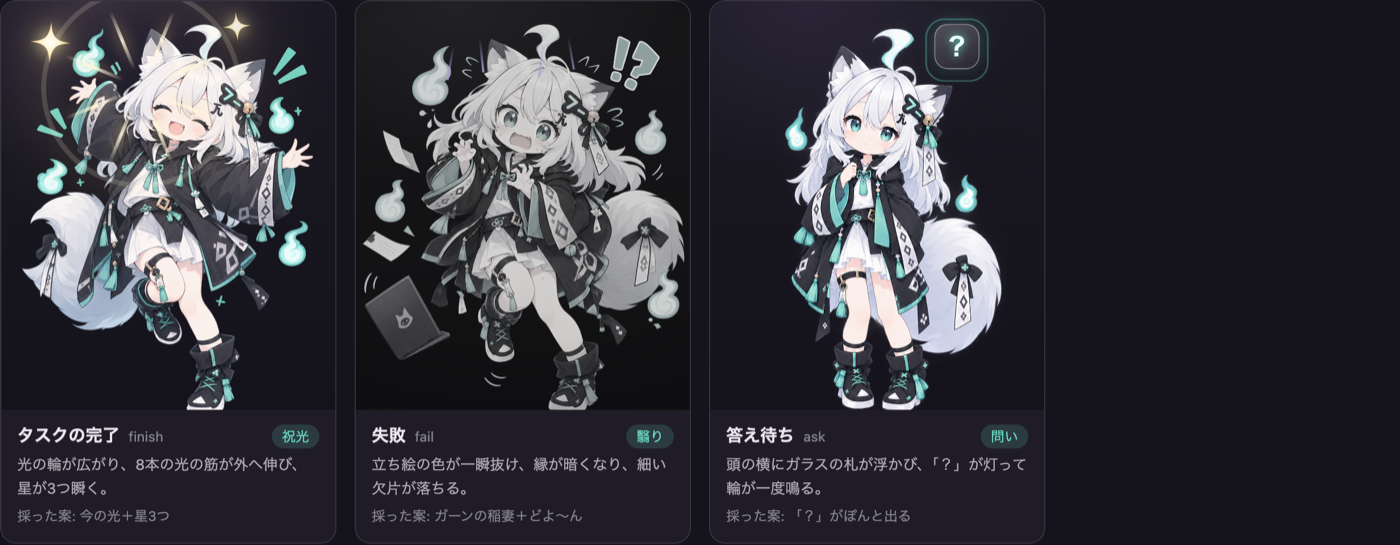
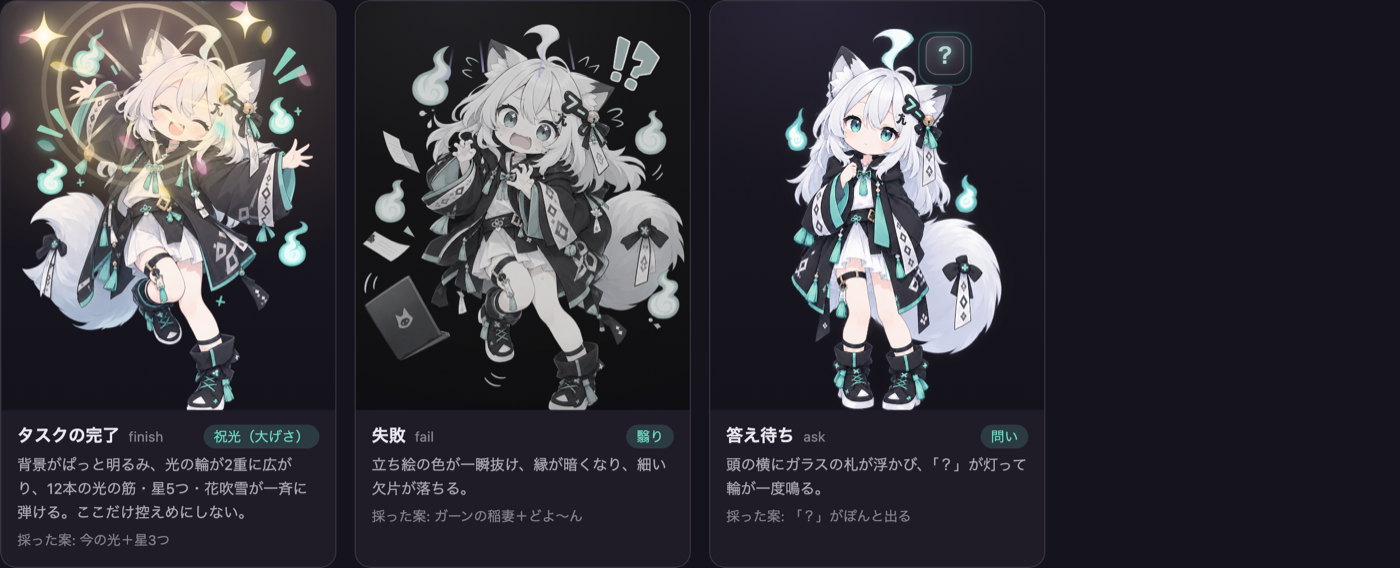
エフェクトの見本: あわわを光る雫に戻し、普段の表情を控えめに、完了だけ大げさにした

diff --git a/docs/history/mockup/effects-2026-11-21/compare.html b/docs/history/mockup/effects-2026-11-21/compare.html
@@ -88,19 +88,34 @@
 
   /* --- あわわ（flustered）: 火照り ---
      頬に桃色のぼかしが灯り、線だけのハートが2つ揺れて昇る */
-  .blush { width: 46px; height: 22px; margin: -11px -23px; border-radius: 50%;
-    background: radial-gradient(closest-side, rgb(255 140 170 / .75), rgb(255 140 170 / 0));
-    filter: blur(3px); animation: blush calc(1.8s * var(--k)) ease-in-out 1 forwards; }
-  @keyframes blush { 0% { opacity: 0; scale: .6; } 30%, 65% { opacity: 1; scale: 1; } 100% { opacity: 0; } }
-  .heart { --c: #ff9ec0; width: var(--s); height: var(--s); margin: calc(var(--s) / -2);
-    animation: heart calc(1.7s * var(--k)) cubic-bezier(.2,.8,.3,1) var(--d) 1 forwards; }
-  .heart path { fill: none; stroke: #ffc3d7; stroke-width: 2.2; stroke-linejoin: round; }
-  @keyframes heart {
-    0% { opacity: 0; transform: translate(0, 6px) scale(.3) rotate(-12deg); }
-    25% { opacity: 1; transform: translate(calc(var(--dx) * .3), calc(var(--dy) * .3)) scale(1.05) rotate(8deg); }
-    60% { opacity: 1; transform: translate(calc(var(--dx) * .7), calc(var(--dy) * .7)) scale(1) rotate(-6deg); }
-    100% { opacity: 0; transform: translate(var(--dx), var(--dy)) scale(.9) rotate(4deg); }
+  /* あわわ: 光る雫。ガラスのような水滴が勢いよく飛び、先で小さく散る */
+  /* 角を1つだけ尖らせた正方形を傾けて雫の形にする（尖りが上） */
+  .drop { width: var(--s); height: var(--s); margin: calc(var(--s) / -2);
+    border-radius: 50% 0 50% 50%; rotate: calc(var(--rot) - 45deg);
+    background: radial-gradient(circle at 38% 58%, #fff 0 14%, transparent 30%),
+                linear-gradient(225deg, rgb(240 250 255), rgb(170 225 255) 50%, rgb(110 190 255));
+    border: 1px solid rgb(255 255 255 / .8);
+    box-shadow: 0 0 10px rgb(150 215 255 / .85), inset -2px -2px 3px rgb(60 130 230 / .35);
+    animation: drop calc(0.85s * var(--k)) cubic-bezier(.2,.9,.4,1) var(--d) 1 forwards; }
+  @keyframes drop {
+    0% { opacity: 0; transform: translate(0, 0) scale(.3); }
+    18% { opacity: 1; transform: translate(calc(var(--dx) * .5), calc(var(--dy) * .6)) scale(1.1); }
+    65% { opacity: 1; transform: translate(var(--dx), var(--dy)) scale(1); }
+    100% { opacity: 0; transform: translate(calc(var(--dx) * 1.1), calc(var(--dy) + 18px)) scale(.85); }
   }
+  .splash { width: 5px; height: 5px; margin: -2.5px; border-radius: 50%; background: #dff4ff; box-shadow: 0 0 6px #8fd0ff;
+    animation: splash calc(0.5s * var(--k)) ease-out var(--d) 1 forwards; }
+  @keyframes splash { 0% { opacity: 0; scale: .2; } 30% { opacity: 1; scale: 1.2; } 100% { opacity: 0; scale: .4; translate: 6px -6px; } }
+
+  /* 普段の表情は控えめに: 全体の明るさと大きさを一段下げる */
+  .calm .a { scale: .85; }
+  .calm .fx { opacity: .8; }
+
+  /* 完了だけ大げさに: 背景が一瞬明るむ */
+  .flashBg { position: absolute; inset: -30% -60%; opacity: 0;
+    background: radial-gradient(60% 50% at 50% 20%, rgb(255 236 190 / .28), rgb(255 200 150 / .1) 55%, transparent 80%);
+    animation: flashBg calc(1.4s * var(--k)) ease-out 1 forwards; }
+  @keyframes flashBg { 0% { opacity: 0; } 15% { opacity: 1; } 100% { opacity: 0; } }
 
   /* --- きりっ（serious）: 閃光 ---
      目の横を細い光の筋が斜めに走り、交点で光が一度だけ弾ける */
@@ -227,7 +242,7 @@
 <header class="page">
   <div>
     <h1>表情のエフェクト — 見直し案</h1>
-    <p>通常の表情には何も出さない。記号を重ねる漫画の表現から、光・粒・ぼかしで描く表現へ寄せた。カードを押すともう一度再生する。</p>
+    <p>通常の表情には何も出さない。普段の演出は光・粒・ぼかしで控えめに、タスクの完了（レポートの出来上がり）だけは大げさに。カードを押すともう一度再生する。</p>
   </div>
   <div class="toolbar">
     <button type="button" id="replay">全部を再生</button>
@@ -246,7 +261,6 @@
 <script>
 const IMG = (name) => `../../../../characters/tsukumo/${name}.png`
 const STAR = '<path d="M50 0 C54 38 62 46 100 50 C62 54 54 62 50 100 C46 62 38 54 0 50 C38 46 46 38 50 0Z" />'
-const HEART = '<path d="M16 28 C6 20 2 14 2 9.5 C2 5.5 5.2 2.5 9 2.5 C12 2.5 14.4 4.3 16 7 C17.6 4.3 20 2.5 23 2.5 C26.8 2.5 30 5.5 30 9.5 C30 14 26 20 16 28Z" />'
 
 // ax, ay: 立ち絵の箱の中の顔の位置（0〜1）。characters/tsukumo/character.json の faceAtByExpression と同じ値
 const EXPRESSIONS = [
@@ -255,24 +269,24 @@ const EXPRESSIONS = [
   { id: "thinking", label: "ふむ", img: "thinking", ax: 0.52, ay: 0.5, fx: "think", name: "思索の輪",
     what: "光の粒が2つ昇り、細い輪が描かれ、輪の上を3つの粒が巡って消える。", was: "今: 考え雲に「…」" },
   { id: "proud", label: "えへん", img: "proud", ax: 0.42, ay: 0.2, fx: "sparkle", name: "スパークル",
-    what: "4方向に伸びる光の星が3つ順に瞬き、金の粉が散る。", was: "今: 大きな ✦ が3つ瞬く" },
-  { id: "flustered", label: "あわわ", img: "flustered", ax: 0.45, ay: 0.27, fx: "blush", name: "火照り",
-    what: "頬に桃色のぼかしが灯り、線だけのハートが2つ揺れて昇る。", was: "今: 大粒の汗" },
+    what: "4方向に伸びる光の星が2つ順に瞬き、金の粉が少し散る。", was: "今: 大きな ✦ が3つ瞬く" },
+  { id: "flustered", label: "あわわ", img: "flustered", ax: 0.45, ay: 0.27, fx: "sweat", name: "光る雫",
+    what: "ガラスのような汗の雫が3つ、頭の横から勢いよく飛んで小さく散る。", was: "今: 大粒の汗" },
   { id: "serious", label: "きりっ", img: "serious", ax: 0.48, ay: 0.22, fx: "flash", name: "閃光",
-    what: "目の横を細い光の筋が斜めに2本走り、交点で光が一度だけ弾ける。", was: "今: 目の横の ✦" },
+    what: "頭の横を細い光の筋が斜めに1本走り、光が一度だけ弾ける。", was: "今: 目の横の ✦" },
   { id: "curious", label: "きょとん", img: "curious", ax: 0.5, ay: 0.24, fx: "ripple", name: "波紋",
-    what: "頭の上で細い光の輪が2重に広がり、短い光の線が放射状に伸びる。", was: "今: 太い驚き線5本" },
+    what: "頭の上で細い光の輪が1つ広がり、短い光の線が4本伸びる。", was: "今: 太い驚き線5本" },
   { id: "sad", label: "しょんぼり", img: "sad", ax: 0.5, ay: 0.24, fx: "rain", name: "雨の帳",
     what: "上から藍の帳が下り、細い雨の筋が落ちて、肩で小さな輪が広がる。", was: "今: どよ〜んの影と縦線" },
   { id: "excited", label: "わくわく", img: "excited", ax: 0.48, ay: 0.22, fx: "petals", name: "花吹雪",
     what: "頭の上でやわらかい光がふくらみ、花びらが弧を描いて舞い落ちる。", was: "今: 音符と星が昇る" },
   { id: "bored", label: "たいくつ", img: "bored", ax: 0.55, ay: 0.7, fx: "bubbles", name: "泡沫",
-    what: "ガラスのような泡が4つ、揺れながらゆっくり昇って消える。", was: "今: 渦 ◎ が昇る" },
+    what: "ガラスのような泡が3つ、揺れながらゆっくり昇って消える。", was: "今: 渦 ◎ が昇る" },
 ]
 const ENDINGS = [
-  { id: "finish", label: "タスクの完了", img: "proud", ax: 0.42, ay: 0.2, fx: "finish", bounce: true, name: "祝光",
-    what: "光の輪が広がり、8本の光の筋が外へ伸び、星が3つ瞬く。", was: "採った案: 今の光＋星3つ" },
-  { id: "fail", label: "失敗", img: "flustered", ax: 0.45, ay: 0.27, fx: "fail", name: "翳り",
+  { id: "finish", label: "タスクの完了", img: "proud", ax: 0.42, ay: 0.2, fx: "finish", bounce: true, calm: false, name: "祝光（大げさ）",
+    what: "背景がぱっと明るみ、光の輪が2重に広がり、12本の光の筋・星5つ・花吹雪が一斉に弾ける。ここだけ控えめにしない。", was: "採った案: 今の光＋星3つ" },
+  { id: "fail", label: "失敗", img: "flustered", ax: 0.45, ay: 0.27, fx: "fail", calm: false, name: "翳り",
     what: "立ち絵の色が一瞬抜け、縁が暗くなり、細い欠片が落ちる。", was: "採った案: ガーンの稲妻＋どよ〜ん" },
   { id: "ask", label: "答え待ち", img: "default", ax: 0.5, ay: 0.22, fx: "ask", name: "問い",
     what: "頭の横にガラスの札が浮かび、「？」が灯って輪が一度鳴る。", was: "採った案: 「？」がぽんと出る" },
@@ -297,57 +311,47 @@ const FX = {
         <g class="orbit"><circle cx="42" cy="6" r="3" /><circle cx="78" cy="42" r="2.2" opacity=".8" /><circle cx="42" cy="78" r="1.6" opacity=".6" /></g>`))
   },
   sparkle(a) {
-    const stars = [[-64, -40, 40, 0], [70, -64, 30, .18], [58, 22, 22, .34]]
+    const stars = [[-60, -40, 30, 0], [64, -58, 22, .2]]
     for (const [x, y, s, d] of stars)
       piece(a, "sparkle glow", { "--x": `${x}px`, "--y": `${y}px`, "--s": `${s}px`, "--d": `calc(${d}s * var(--k))` }, svg("0 0 100 100", STAR.replace("<path", '<path fill="url(#gStar)"')))
-    for (let i = 0; i < 10; i++) {
-      const t = (i / 10) * Math.PI * 2
-      piece(a, "dust", { "--x": `${Math.cos(t) * 30}px`, "--y": `${Math.sin(t) * 24 - 20}px`, "--dx": `${Math.cos(t) * 60}px`, "--dy": `${Math.sin(t) * 50 - 20}px`, "--d": `calc(${0.1 + (i % 3) * 0.08}s * var(--k))` })
+    for (let i = 0; i < 6; i++) {
+      const t = (i / 6) * Math.PI * 2
+      piece(a, "dust", { "--x": `${Math.cos(t) * 30}px`, "--y": `${Math.sin(t) * 24 - 20}px`, "--dx": `${Math.cos(t) * 46}px`, "--dy": `${Math.sin(t) * 38 - 20}px`, "--d": `calc(${0.1 + (i % 3) * 0.08}s * var(--k))` })
     }
   },
-  blush(a) {
-    piece(a, "blush", { "--x": "-30px", "--y": "22px" })
-    piece(a, "blush", { "--x": "30px", "--y": "22px" })
-    piece(a, "heart glow", { "--x": "56px", "--y": "-20px", "--s": "24px", "--dx": "18px", "--dy": "-56px", "--d": "calc(0.15s * var(--k))" }, svg("0 0 32 32", HEART))
-    piece(a, "heart glow", { "--x": "72px", "--y": "6px", "--s": "16px", "--dx": "26px", "--dy": "-44px", "--d": "calc(0.4s * var(--k))" }, svg("0 0 32 32", HEART))
+  sweat(a) {
+    // 画の「!?」と重ならない頭の左上から、光る雫が外へ弧を描いて飛び、ぱっと散る
+    const drops = [[-64, -50, 22, -40, -30, -28, 0], [-72, -24, 16, -50, -4, -44, .1], [-48, -70, 13, -22, -40, -10, .2]]
+    for (const [x, y, s, dx, dy, rot, d] of drops)
+      piece(a, "drop", { "--x": `${x}px`, "--y": `${y}px`, "--s": `${s}px`, "--dx": `${dx}px`, "--dy": `${dy}px`, "--rot": `${rot}deg`, "--d": `calc(${d}s * var(--k))` })
+    for (const [x, y, d] of [[-108, -82, .35], [-124, -30, .42], [-72, -112, .48]])
+      piece(a, "splash", { "--x": `${x}px`, "--y": `${y}px`, "--d": `calc(${d}s * var(--k))` })
   },
   flash(a) {
-    piece(a, "slash", { "--x": "112px", "--y": "-18px", "--d": "0s" }).style.width = "130px"
-    piece(a, "slash", { "--x": "120px", "--y": "-4px", "--d": "calc(0.08s * var(--k))" }).style.width = "80px"
+    piece(a, "slash", { "--x": "112px", "--y": "-18px", "--d": "0s" }).style.width = "110px"
     piece(a, "flare glow", { "--x": "84px", "--y": "-6px" }, svg("0 0 100 100", STAR.replace("<path", '<path fill="url(#gFlare)"')))
   },
   ripple(a) {
     piece(a, "ripple", { "--x": "0px", "--y": "-30px", "--d": "0s" })
-    piece(a, "ripple", { "--x": "0px", "--y": "-30px", "--d": "calc(0.18s * var(--k))" })
-    for (const r of [-70, -42, -14, 14, 42, 70]) {
+    for (const r of [-50, -18, 18, 50]) {
       const t = (r - 90) * Math.PI / 180
       piece(a, "ray", { "--x": `${Math.cos(t) * 50}px`, "--y": `${Math.sin(t) * 50 - 30}px`, "--r": `${r}deg` })
     }
   },
   rain(a, fx) {
     const veil = document.createElement("span"); veil.className = "veil"; fx.prepend(veil)
-    for (let i = 0; i < 16; i++) {
+    for (let i = 0; i < 9; i++) {
       const r = document.createElement("span"); r.className = "rain"
       r.style.setProperty("--l", `${8 + ((i * 37) % 84)}%`)
       r.style.setProperty("--d", `calc(${((i * 0.13) % 0.9).toFixed(2)}s * var(--k))`)
       fx.append(r)
     }
-    for (const [x, d] of [[-58, .5], [44, .8], [-12, 1.1]])
+    for (const [x, d] of [[-58, .5], [44, .8]])
       piece(a, "drip", { "--x": `${x}px`, "--y": "96px", "--d": `calc(${d}s * var(--k))` })
   },
-  petals(a) {
-    piece(a, "bloom", { "--x": "0px", "--y": "-40px" })
-    const colors = ["#ff8fb1", "#ffc56b", "#6fe3cd", "#ff9fd0", "#ffe27a"]
-    for (let i = 0; i < 16; i++) {
-      const t = -Math.PI / 2 + ((i / 15) - 0.5) * Math.PI * 1.3
-      const dist = 55 + (i % 4) * 14
-      piece(a, "petal", { "--x": "0px", "--y": "-40px", "--pc": colors[i % colors.length],
-        "--dx": `${Math.cos(t) * dist * 1.3}px`, "--dy": `${Math.sin(t) * dist}px`,
-        "--rot": `${(i % 2 ? 1 : -1) * (240 + i * 20)}deg`, "--d": `calc(${(i % 5) * 0.04}s * var(--k))` })
-    }
-  },
+  petals(a) { burstPetals(a, 8, 0.75, false) },
   bubbles(a) {
-    const list = [[40, -30, 30, -10, -90, 0], [66, -10, 20, 16, -110, .35], [24, -6, 14, -18, -70, .7], [80, -40, 24, 10, -120, .95]]
+    const list = [[40, -30, 26, -10, -90, 0], [66, -10, 17, 16, -110, .35], [80, -40, 20, 10, -120, .8]]
     for (const [x, y, s, dx, dy, d] of list)
       piece(a, "bubble", { "--x": `${x}px`, "--y": `${y}px`, "--s": `${s}px`, "--dx": `${dx}px`, "--dy": `${dy}px`, "--d": `calc(${d}s * var(--k))` })
   },
@@ -362,24 +366,40 @@ const FX = {
   },
 }
 
+function burstPetals(a, count, scale, wide) {
+  piece(a, "bloom", { "--x": "0px", "--y": "-40px" }).style.scale = wide ? "1.8" : "1"
+  const colors = ["#ff8fb1", "#ffc56b", "#6fe3cd", "#ff9fd0", "#ffe27a"]
+  for (let i = 0; i < count; i++) {
+    const t = -Math.PI / 2 + ((i / (count - 1)) - 0.5) * Math.PI * (wide ? 1.9 : 1.2)
+    const dist = (55 + (i % 4) * 14) * scale
+    piece(a, "petal", { "--x": "0px", "--y": "-40px", "--pc": colors[i % colors.length],
+      "--dx": `${Math.cos(t) * dist * 1.3}px`, "--dy": `${Math.sin(t) * dist}px`,
+      "--rot": `${(i % 2 ? 1 : -1) * (240 + i * 20)}deg`, "--d": `calc(${(i % 5) * 0.04}s * var(--k))` })
+  }
+}
+
+// 完了（最終レポートが出来上がったとき）だけは大げさにする。
 // 光の筋は回転の軸を持つので、外へ伸ばすには筋ごとに包む
-FX.finish = (a) => {
+FX.finish = (a, fx) => {
+  const flash = document.createElement("span"); flash.className = "flashBg"; fx.prepend(flash)
   piece(a, "halo", { "--x": "0px", "--y": "-10px" })
-  for (let i = 0; i < 8; i++) {
+  piece(a, "halo", { "--x": "0px", "--y": "-10px" }).style.animationDelay = "calc(0.2s * var(--k))"
+  for (let i = 0; i < 12; i++) {
     const wrap = document.createElement("span")
-    wrap.style.cssText = `position:absolute;left:0;top:-10px;rotate:${i * 45 + 22.5}deg`
-    piece(wrap, "beam", { "--r": "0deg" })
+    wrap.style.cssText = `position:absolute;left:0;top:-10px;rotate:${i * 30 + 15}deg`
+    piece(wrap, "beam", { "--r": "0deg" }).style.height = i % 2 ? "44px" : "72px"
     a.append(wrap)
   }
-  for (const [x, y, s, d] of [[-80, -50, 30, .25], [84, -64, 24, .38], [70, 34, 18, .5]])
+  for (const [x, y, s, d] of [[-86, -56, 38, .2], [92, -70, 30, .32], [76, 40, 22, .44], [-72, 46, 20, .55], [8, -110, 26, .38]])
     piece(a, "sparkle glow", { "--x": `${x}px`, "--y": `${y}px`, "--s": `${s}px`, "--d": `calc(${d}s * var(--k))` }, svg("0 0 100 100", STAR.replace("<path", '<path fill="url(#gStar)"')))
+  burstPetals(a, 20, 1.5, true)
 }
 
 const cards = []
 const playById = {}
 function makeCard(item, into) {
   const card = document.createElement("article")
-  card.className = "card"
+  card.className = item.calm === false ? "card" : "card calm"
   card.dataset.id = item.id
   card.innerHTML = `
     <button type="button" class="stage" aria-label="${item.label}のエフェクトを再生">
